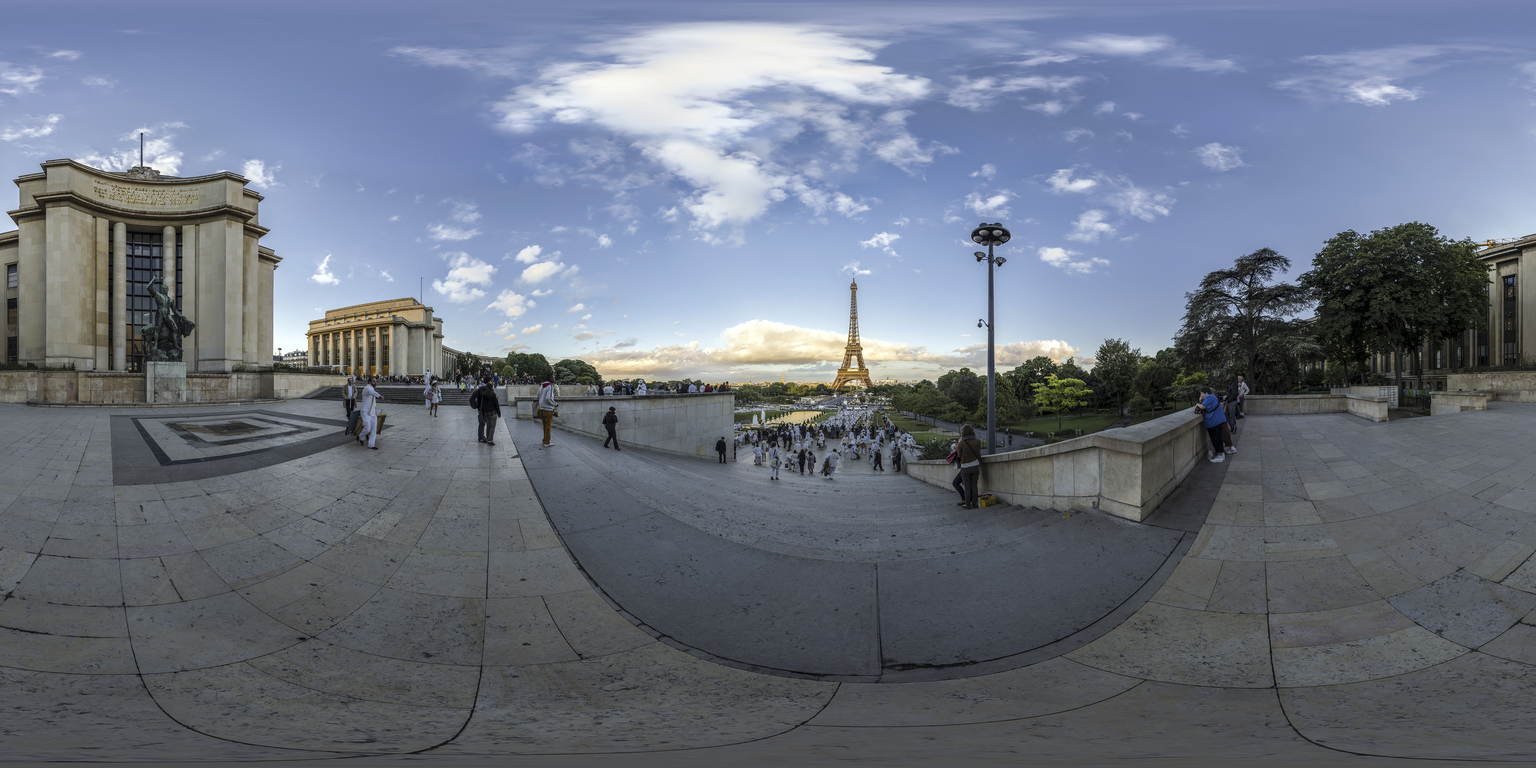
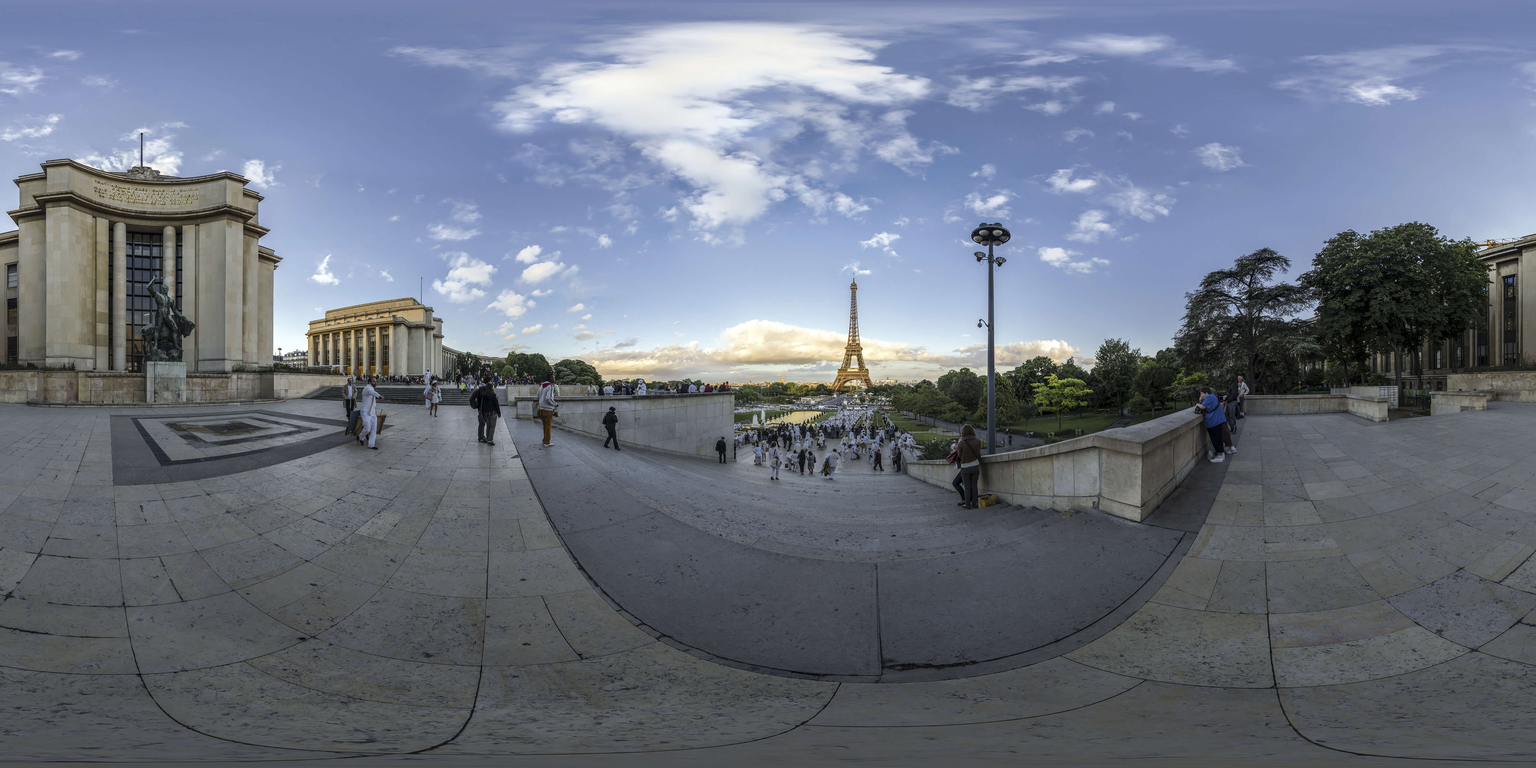
Compresión de imagenes

diff --git a/index.html b/index.html
@@ -23,7 +23,7 @@
     <a-scene>
 
         <a-camera position="0 2 0">
-            <a-cursor color="#ffff" fuse="true" timeout="10"></a-cursor>
+            <a-cursor color="#5DADE2" fuse="true" timeout="10"></a-cursor>
         </a-camera>
 
         <a-plane width="16" height="9" position="0 8 -20" src="Principal.jpg" set-sky="Principal.jpg"></a-plane>
